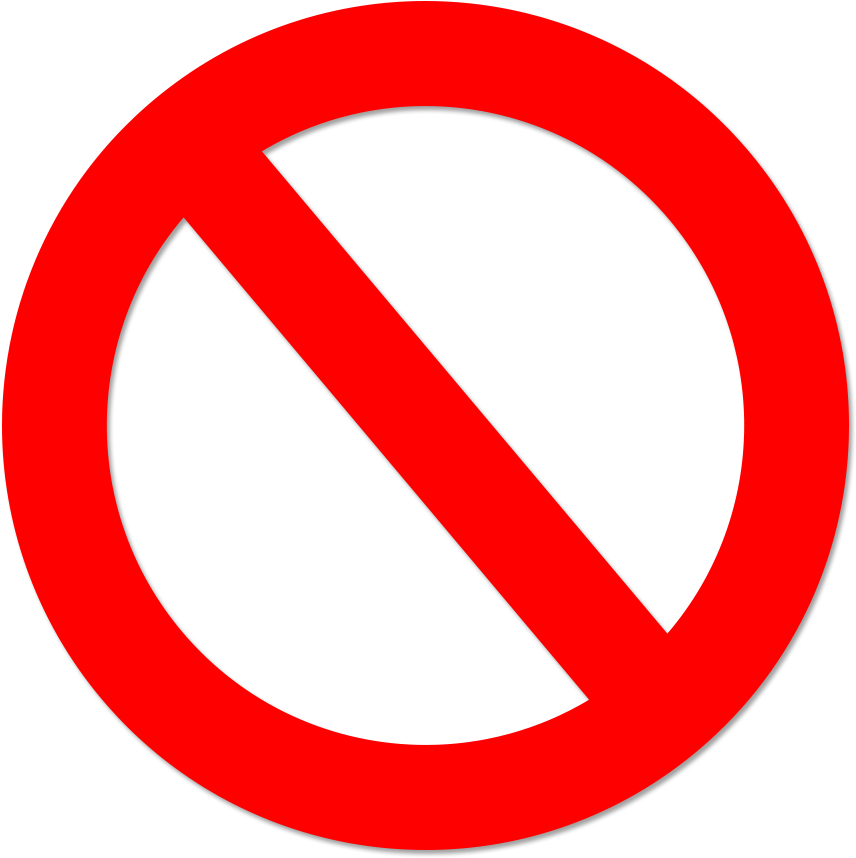
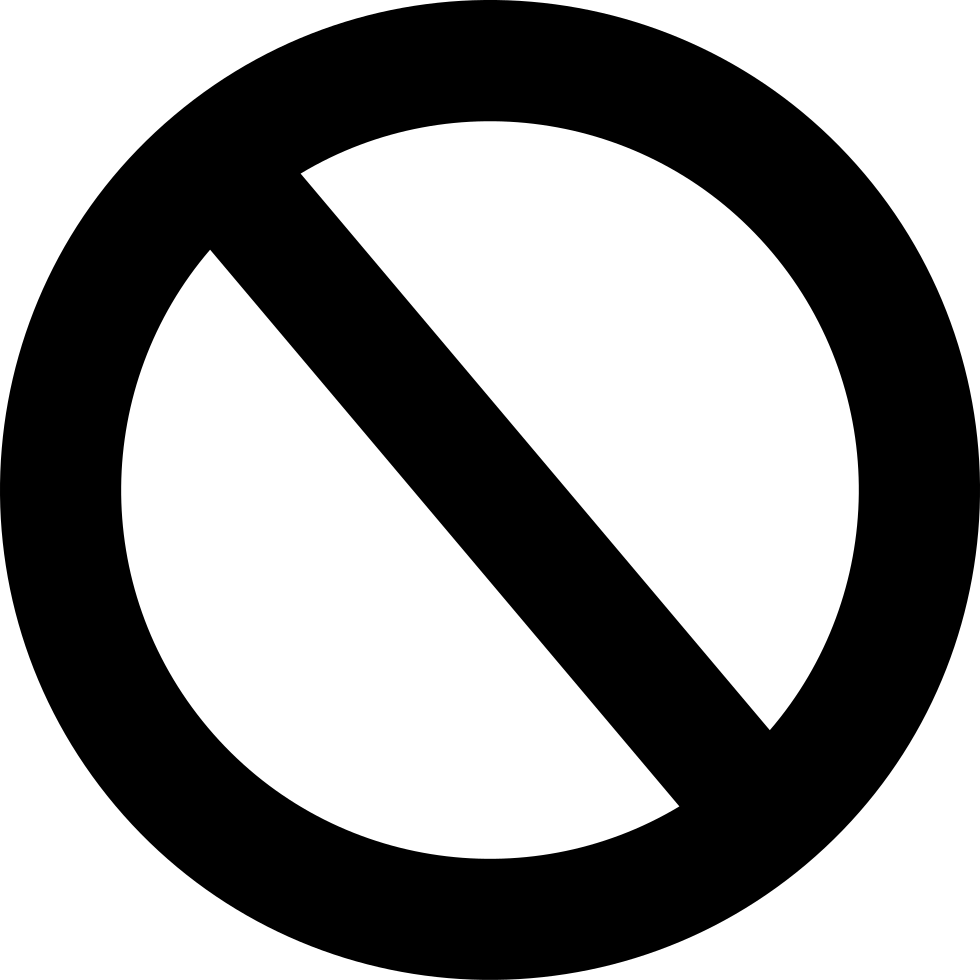
beets-307 Added image to disabled cart button
The button now shows a cross and turns red when it should be unavailable
Added dependent states at line 107 to clear an error

diff --git a/client/src/components/AssetTable/AssetRow/AssetRow.js b/client/src/components/AssetTable/AssetRow/AssetRow.js
@@ -104,13 +104,13 @@ function AssetRow(props) {
     }
     //if the item was not in the Cart, force the item to be unselected
     setSelected(false);
-  }, [selectList]); //calls on changes to select list to work with the Clear Selection Button
+  }, [selectList, selected, setSelectList, asset.asset_tag]); //calls on changes to select list to work with the Clear Selection Button
 
   return (
     <tr className={selected ? "table-primary" : null}>
       <td>{/*The button below creates a shopping cart icon next to the asset that changes on a successful add.*/}  
-          <Button variant={selected? "success" : "secondary"} onClick={handleSelect}>
-            <img alt={selected ? 'Added to Cart' : 'Add to Cart'} src={selected ? checkMark : cartIcon} width="25" height="25"/>
+          <Button variant={asset.checked_out ? "danger" : selected ? "success" : "secondary"} onClick={handleSelect} disabled={asset.checked_out ? true : false}>
+            <img alt={asset.checked_out ? 'Unavailable' : selected ? 'Added to Cart' : 'Add to Cart'} src={asset.checked_out ? crossedOut : selected ? checkMark : cartIcon} width="25" height="25"/>
           </Button>
       </td>
       <td>{asset.asset_tag}</td>
